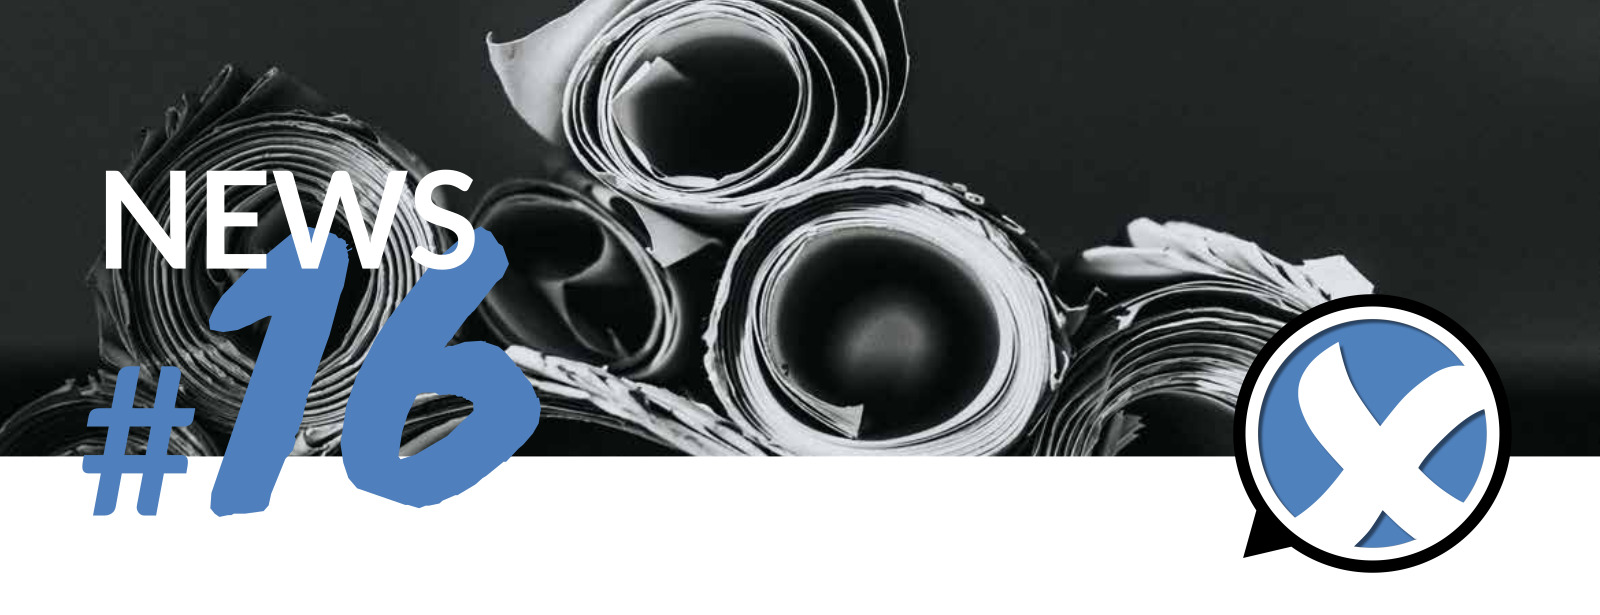
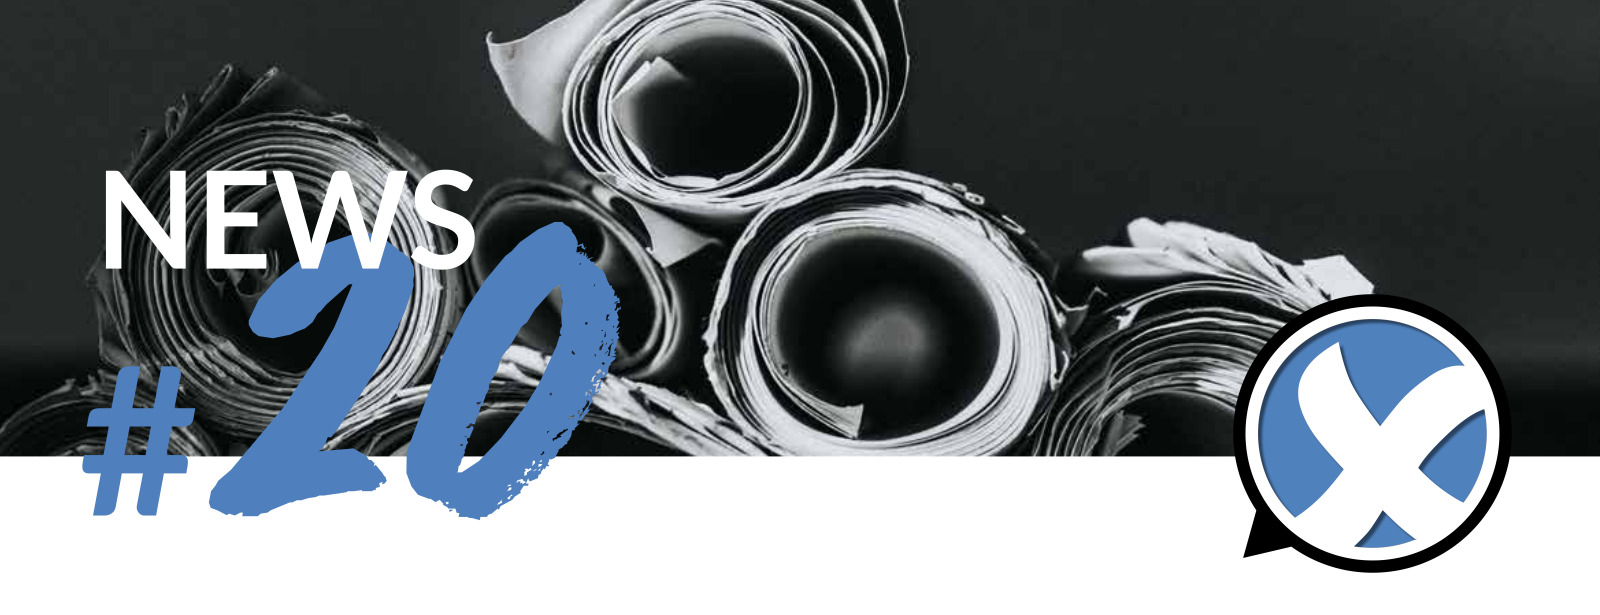
update header to #20

Changed region(s): [[0.125, 0.3398, 0.4062, 0.865]]

diff --git a/newsletter.html b/newsletter.html
@@ -335,7 +335,7 @@
   </div>
   <br>
   <div class="page">
-    <img src="./email/header.png" style="width: 100%;" />
+    <img src="./email/header.jpeg" style="width: 100%;" />
     <div class="content">
       <div>
         <!-- Header bild und text-->
